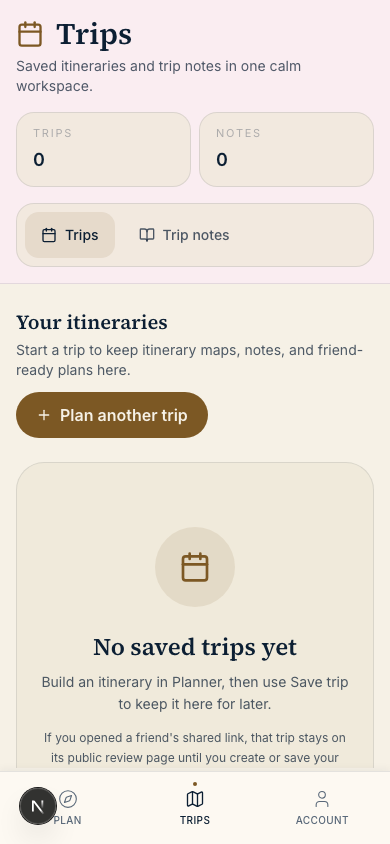
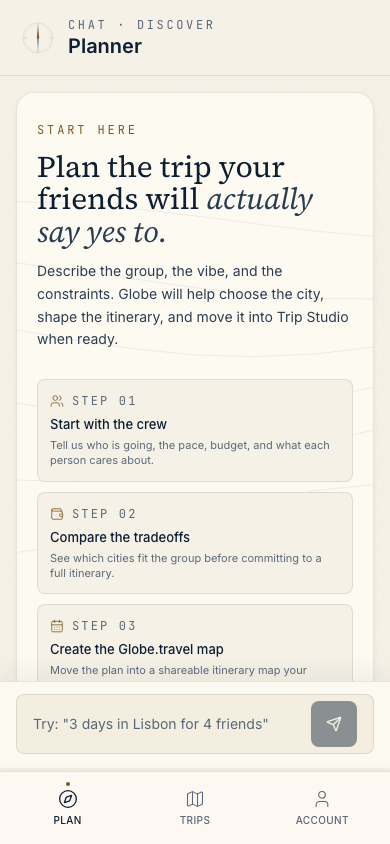
Route map alias to planner

diff --git a/client/app/(app)/map/page.tsx b/client/app/(app)/map/page.tsx
@@ -1,5 +1,5 @@
 import { redirect } from 'next/navigation'
 
 export default function MapPage() {
-  redirect('/saved')
+  redirect('/chat')
 }

diff --git a/qa/app-surfaces-smoke-2026-05-23.md b/qa/app-surfaces-smoke-2026-05-23.md
@@ -20,7 +20,7 @@ Auth mode: guest
 | --- | --- | --- | --- | --- |
 | explore-alias | phone | `/chat` | http://localhost:3000/chat | Pass |
 | globe-alias | phone | `/chat` | http://localhost:3000/chat | Pass |
-| map-alias | phone | `/saved` | http://localhost:3000/saved | Pass |
+| map-alias | phone | `/chat` | http://localhost:3000/chat | Pass |
 | bucket-list-alias | phone | `/saved` | http://localhost:3000/saved | Pass |
 | journal-alias | phone | `/saved?tab=journal` | http://localhost:3000/saved?tab=journal | Pass |
 | profile-alias | phone | `/account` | http://localhost:3000/account | Pass |
@@ -31,7 +31,7 @@ Auth mode: guest
 | onboarding-fullscreen | phone | `/onboarding` | http://localhost:3000/onboarding | Pass |
 | explore-alias | desktop | `/chat` | http://localhost:3000/chat | Pass |
 | globe-alias | desktop | `/chat` | http://localhost:3000/chat | Pass |
-| map-alias | desktop | `/saved` | http://localhost:3000/saved | Pass |
+| map-alias | desktop | `/chat` | http://localhost:3000/chat | Pass |
 | bucket-list-alias | desktop | `/saved` | http://localhost:3000/saved | Pass |
 | journal-alias | desktop | `/saved?tab=journal` | http://localhost:3000/saved?tab=journal | Pass |
 | profile-alias | desktop | `/account` | http://localhost:3000/account | Pass |
